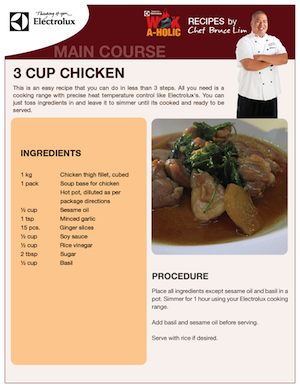
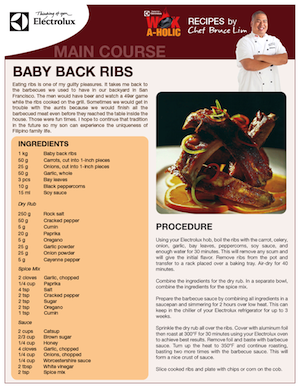
Updated recipe to display PNG file instead of PDF

diff --git a/wokaholic/PDFViewController.m b/wokaholic/PDFViewController.m
@@ -25,19 +25,25 @@
     [super loadView];
     self.navigationController.navigationBar.hidden = NO;
     
-    UIWebView *webView = [[UIWebView alloc] initWithFrame:CGRectMake(0, 0, self.view.bounds.size.width, self.view.bounds.size.height)];
-	webView.autoresizesSubviews = YES;
-	webView.autoresizingMask=(UIViewAutoresizingFlexibleHeight | UIViewAutoresizingFlexibleWidth);
-    webView.dataDetectorTypes = UIDataDetectorTypeLink;
-    //webView.backgroundColor = [UIColor redColor];
+
+    NSString *imageString = [NSString stringWithFormat:@"%@.png", filename];
+    UIImage *image = [UIImage imageNamed:imageString];
     
-    NSURL *url = [NSURL fileURLWithPath:[[NSBundle mainBundle] pathForResource:filename ofType:@"pdf" inDirectory:@"www"]];
-    [webView loadRequest:[NSURLRequest requestWithURL:url]];
+    photoScrollView = [[UIScrollView alloc]initWithFrame: CGRectMake(0, 0, self.view.frame.size.height, self.view.frame.size.width)];
+    photoScrollView.backgroundColor = [UIColor clearColor];
+    photoScrollView.scrollEnabled = YES;
+    photoScrollView.showsHorizontalScrollIndicator = TRUE;
+    photoScrollView.showsVerticalScrollIndicator = TRUE;
+    CGFloat height = (image.size.height*self.view.frame.size.height)/self.view.frame.size.width;
+    photoScrollView.contentSize = CGSizeMake(image.size.width, height + 40);
     
-    //add the web view to the content view
-	[self.view addSubview:webView];
     
-    [webView release];
+    imageView = [[UIImageView alloc]initWithFrame:CGRectMake(0, 0, self.view.frame.size.height, height )];
+    imageView.backgroundColor = [UIColor blueColor];
+    imageView.image = image;
+    [photoScrollView addSubview:imageView];
+    
+    [self.view addSubview:photoScrollView];
 
 }
 

diff --git a/wokaholic/PDFViewController.h b/wokaholic/PDFViewController.h
@@ -10,6 +10,8 @@
 
 @interface PDFViewController : UIViewController <UIWebViewDelegate> {
     NSString *filename;
+    UIScrollView *photoScrollView;
+    UIImageView *imageView;
 }
 - (void)setFileName: (NSString *) name;
 @end
